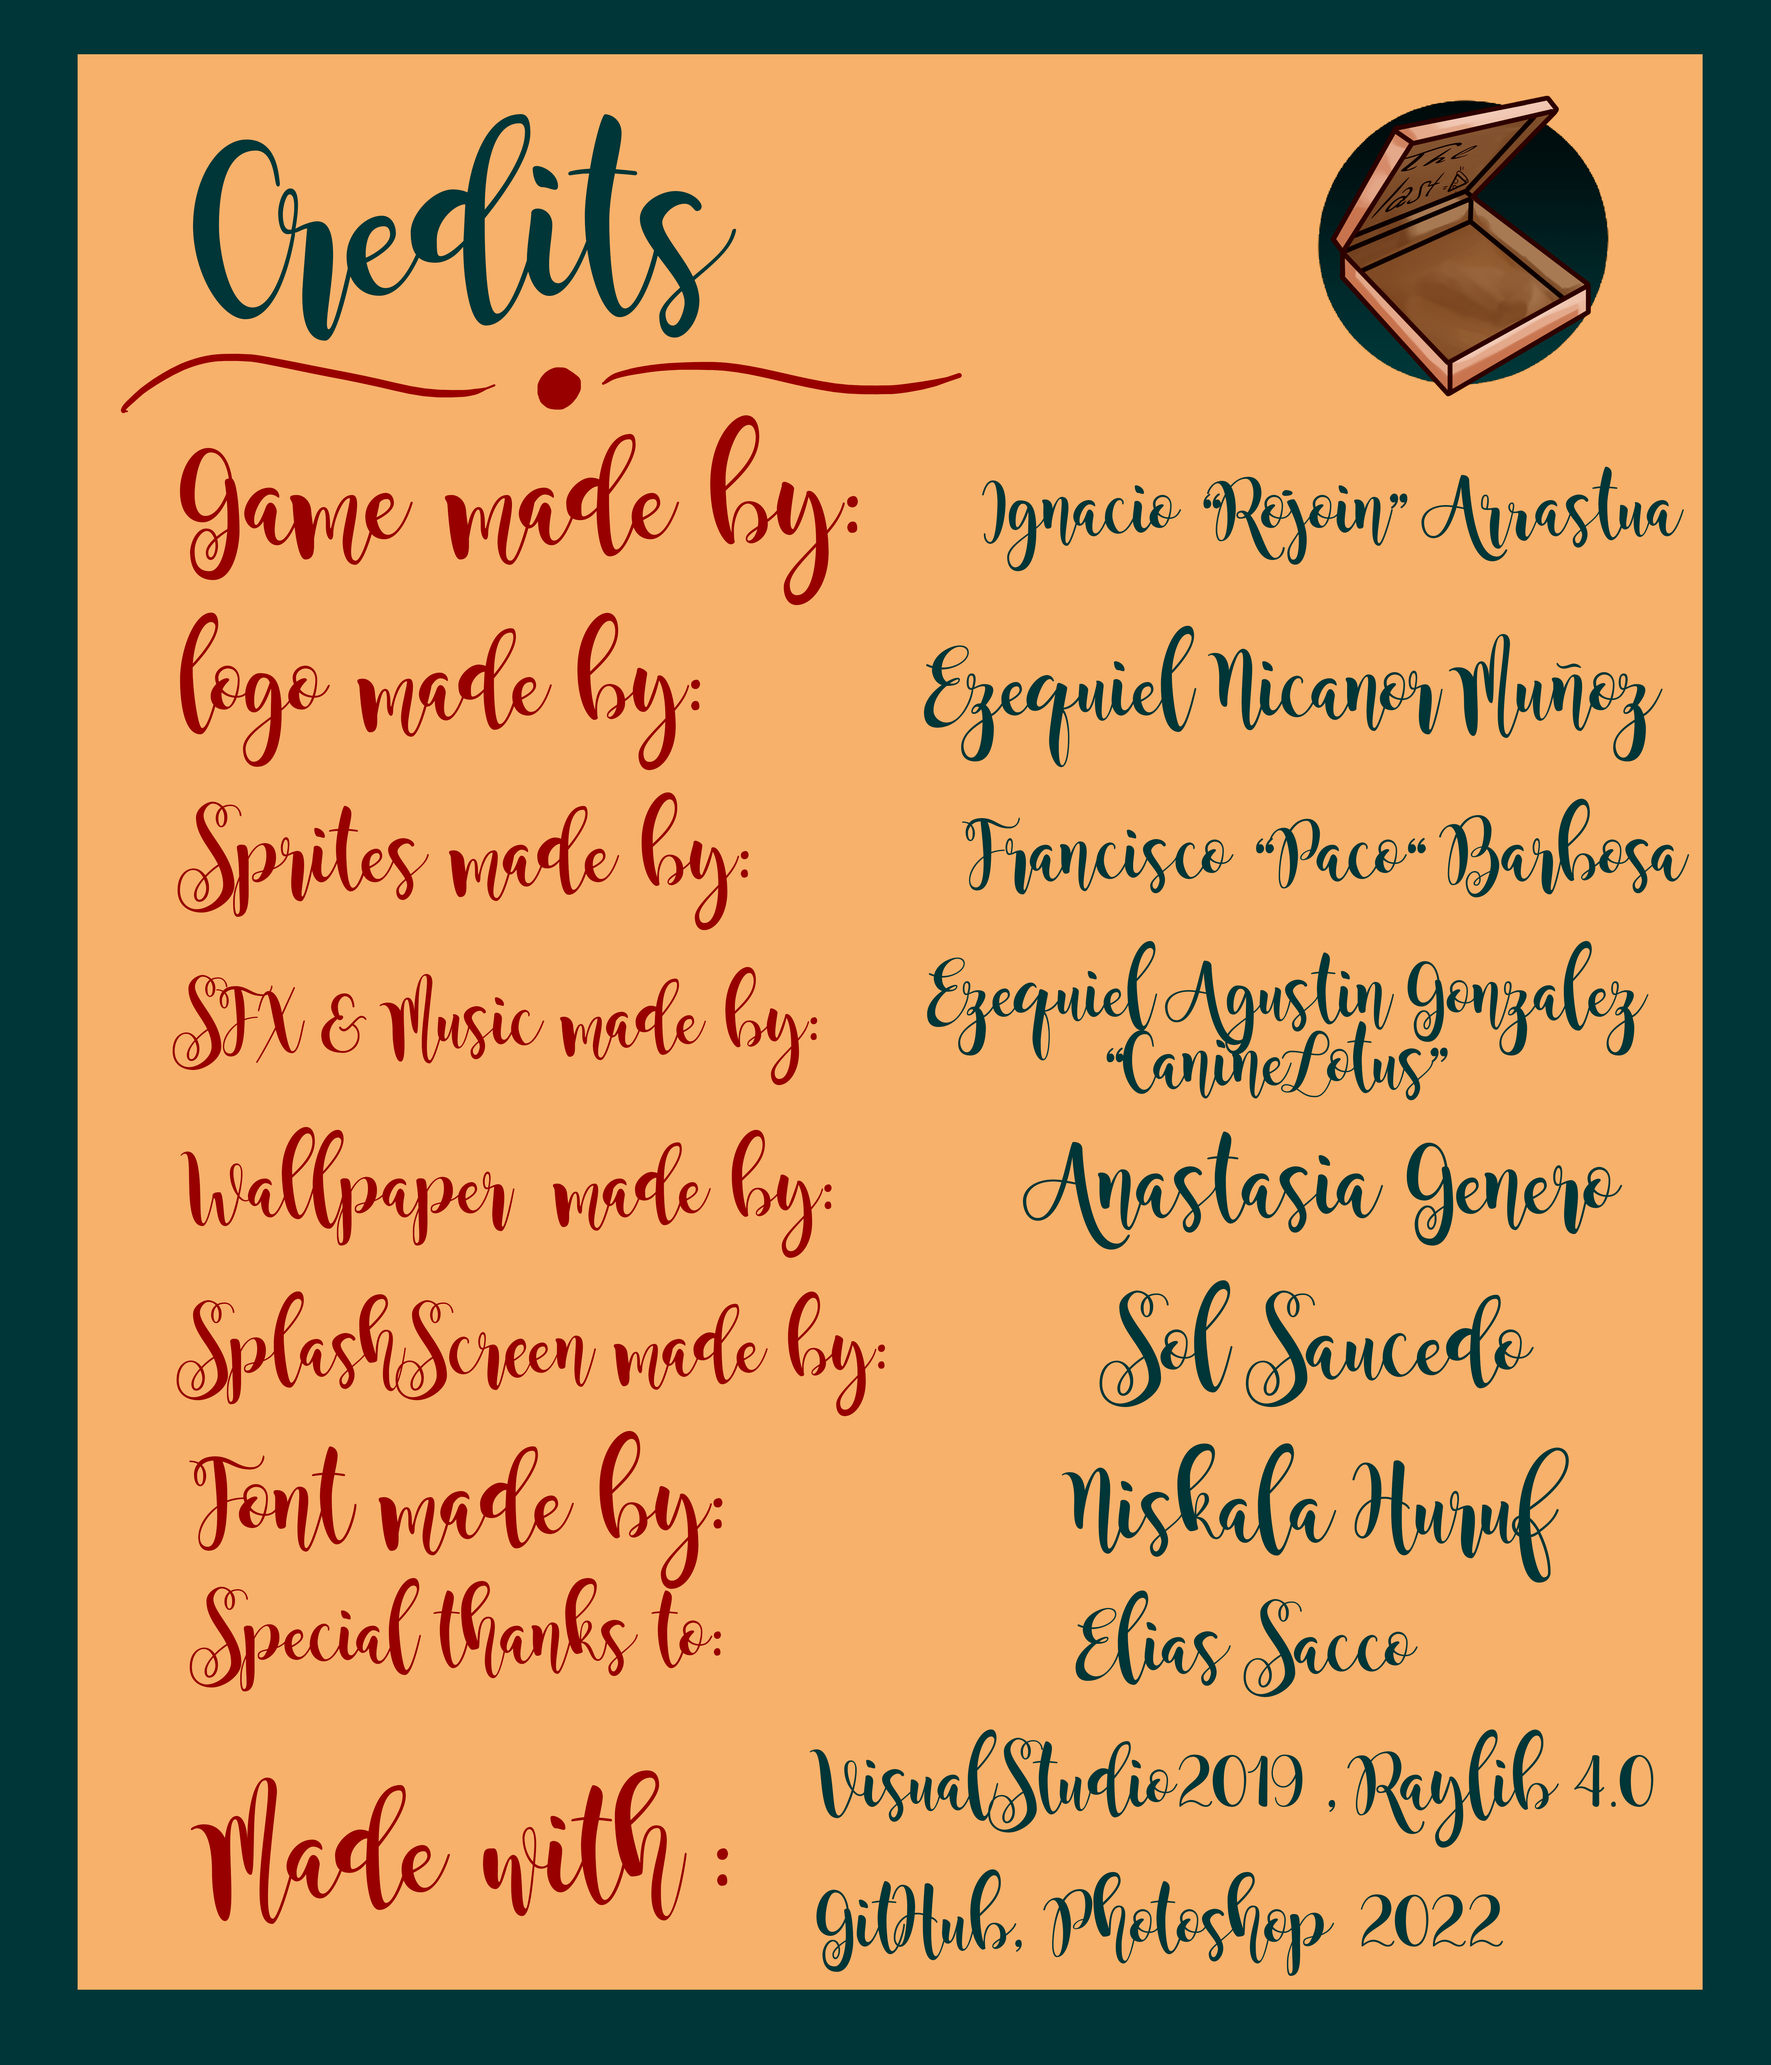
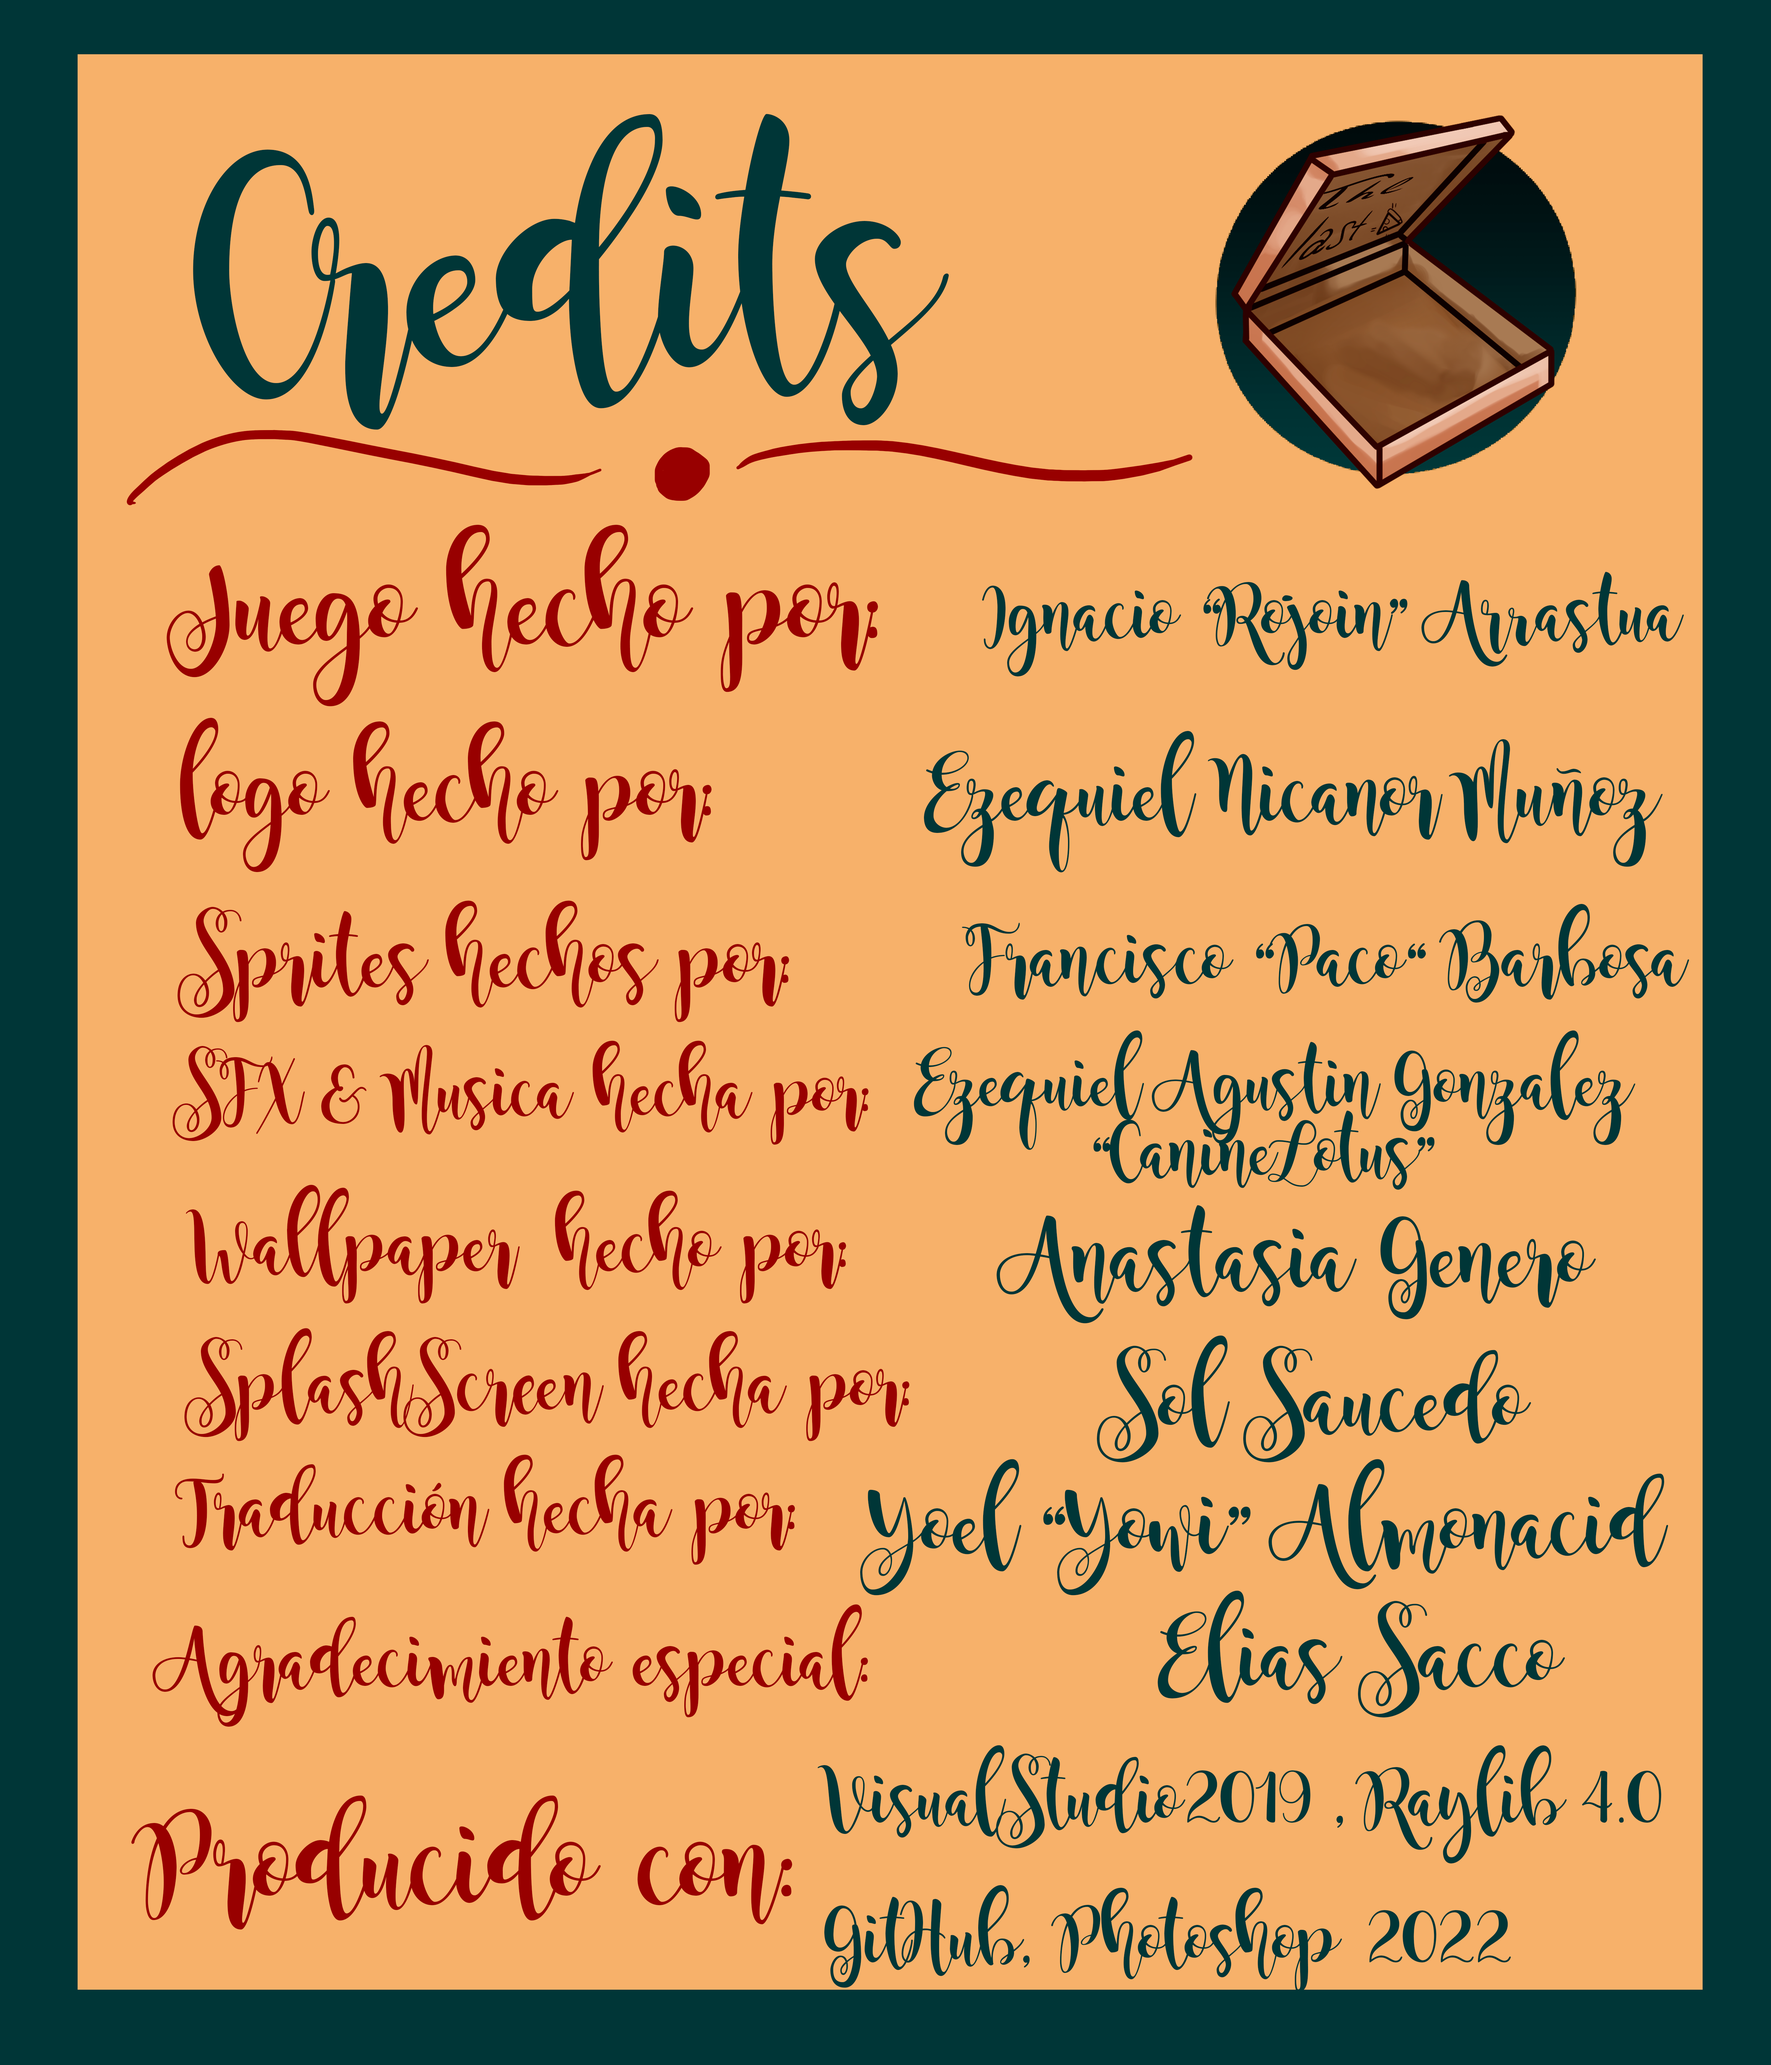
Add spanish png

Changed region(s): [[0.0624, 0.0312, 0.967, 0.9675]]

diff --git a/src/gameScreens/initialAnimationScreen.cpp b/src/gameScreens/initialAnimationScreen.cpp
@@ -37,7 +37,7 @@ void drawInitialAnimation()
 	float height = static_cast<float>(GetScreenHeight());
 	ClearBackground(BLACK);
 	float fontSize = 3 * width / 190;
-	const std::string GamePresentTittle = "Rojoin presents:";
+	const std::string GamePresentTittle = "Rojoin presenta:";
 	drawText(GamePresentTittle.c_str(), width / 2.0f - static_cast<float>(GamePresentTittle.length()) * 1.5f * fontSize, height / 40, fontSize * 8.0f, DARKBROWN, customFont);
 	drawTexture(splashScreen, { 0,0 }, 0, 0.5f, transparency);
 }

diff --git a/src/gameScreens/rulesState.cpp b/src/gameScreens/rulesState.cpp
@@ -5,7 +5,7 @@
 #include "button.h"
 
 extern Font customFont;
-Button escapeButton = createButton(" GO BACK", RED);
+Button escapeButton = createButton("  Volver", RED);
 Texture2D rulesTexture;
 void statesRules()
 {
